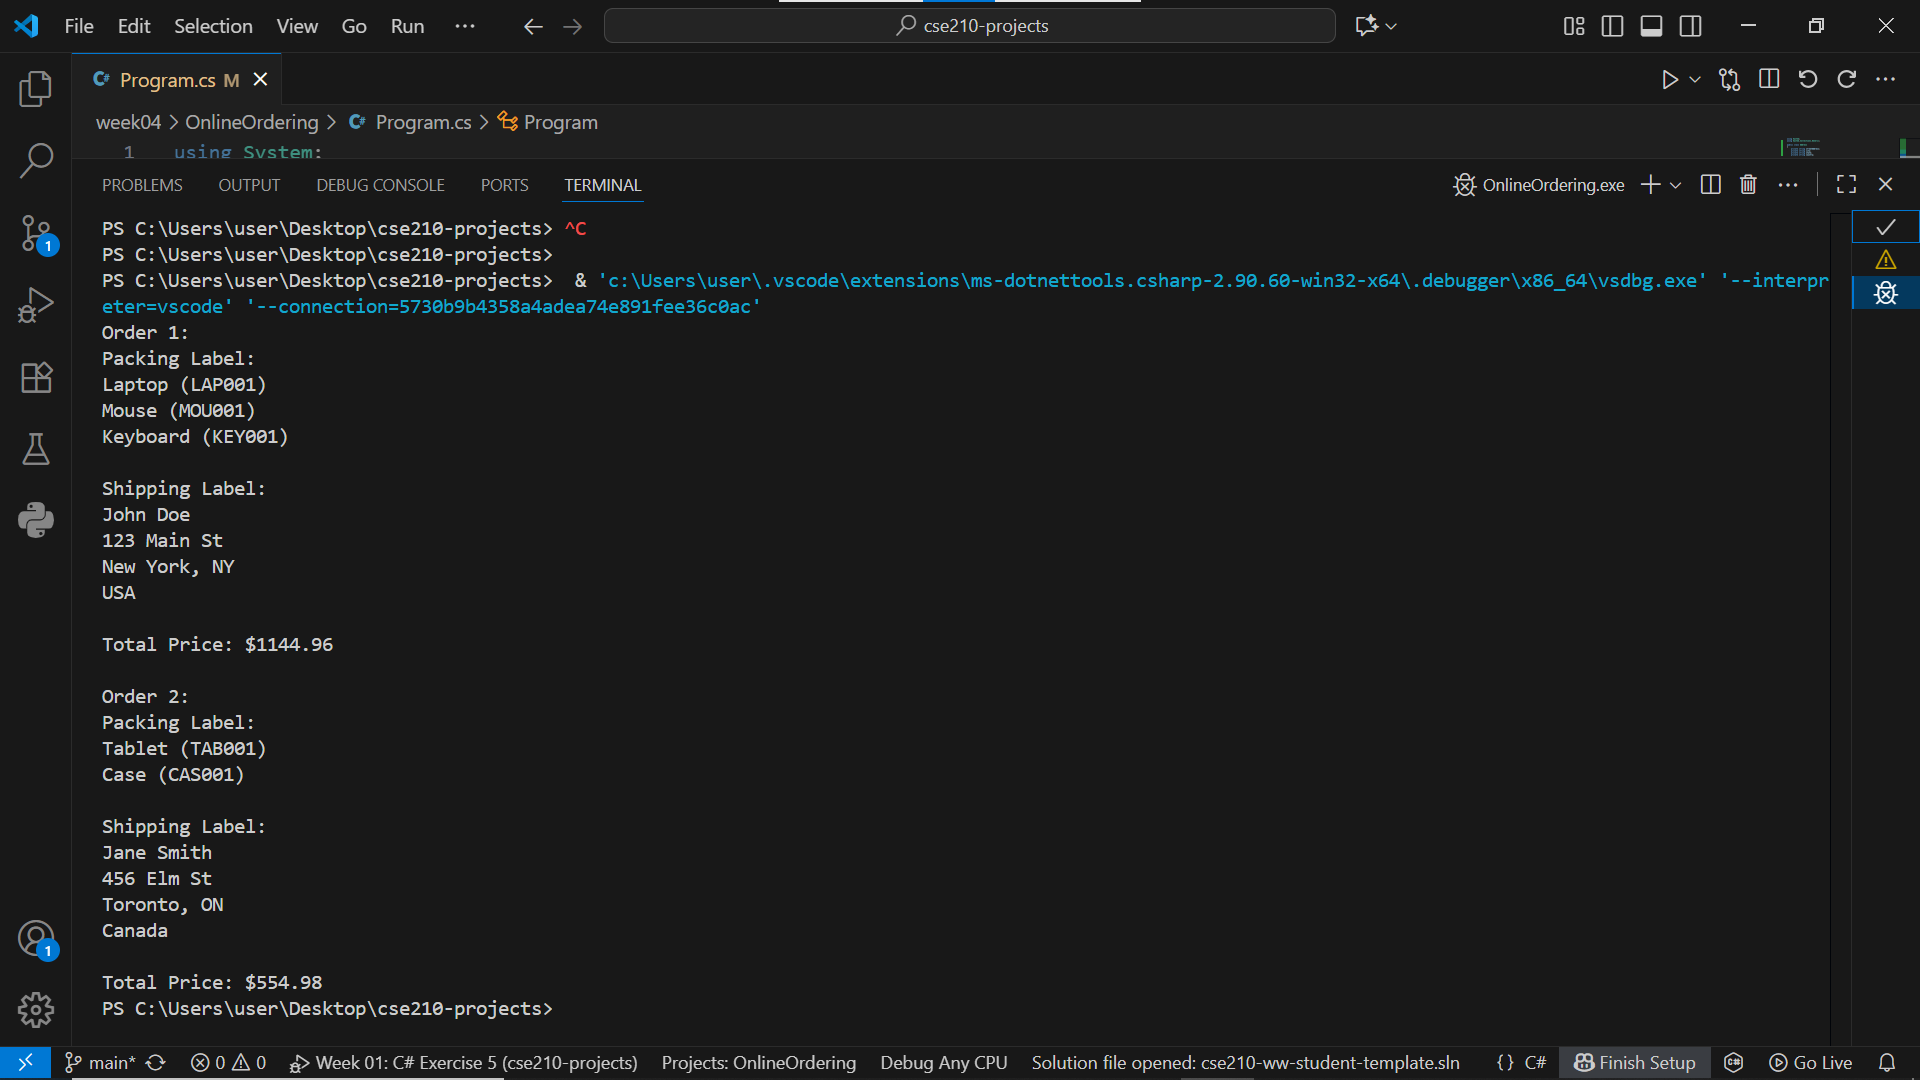
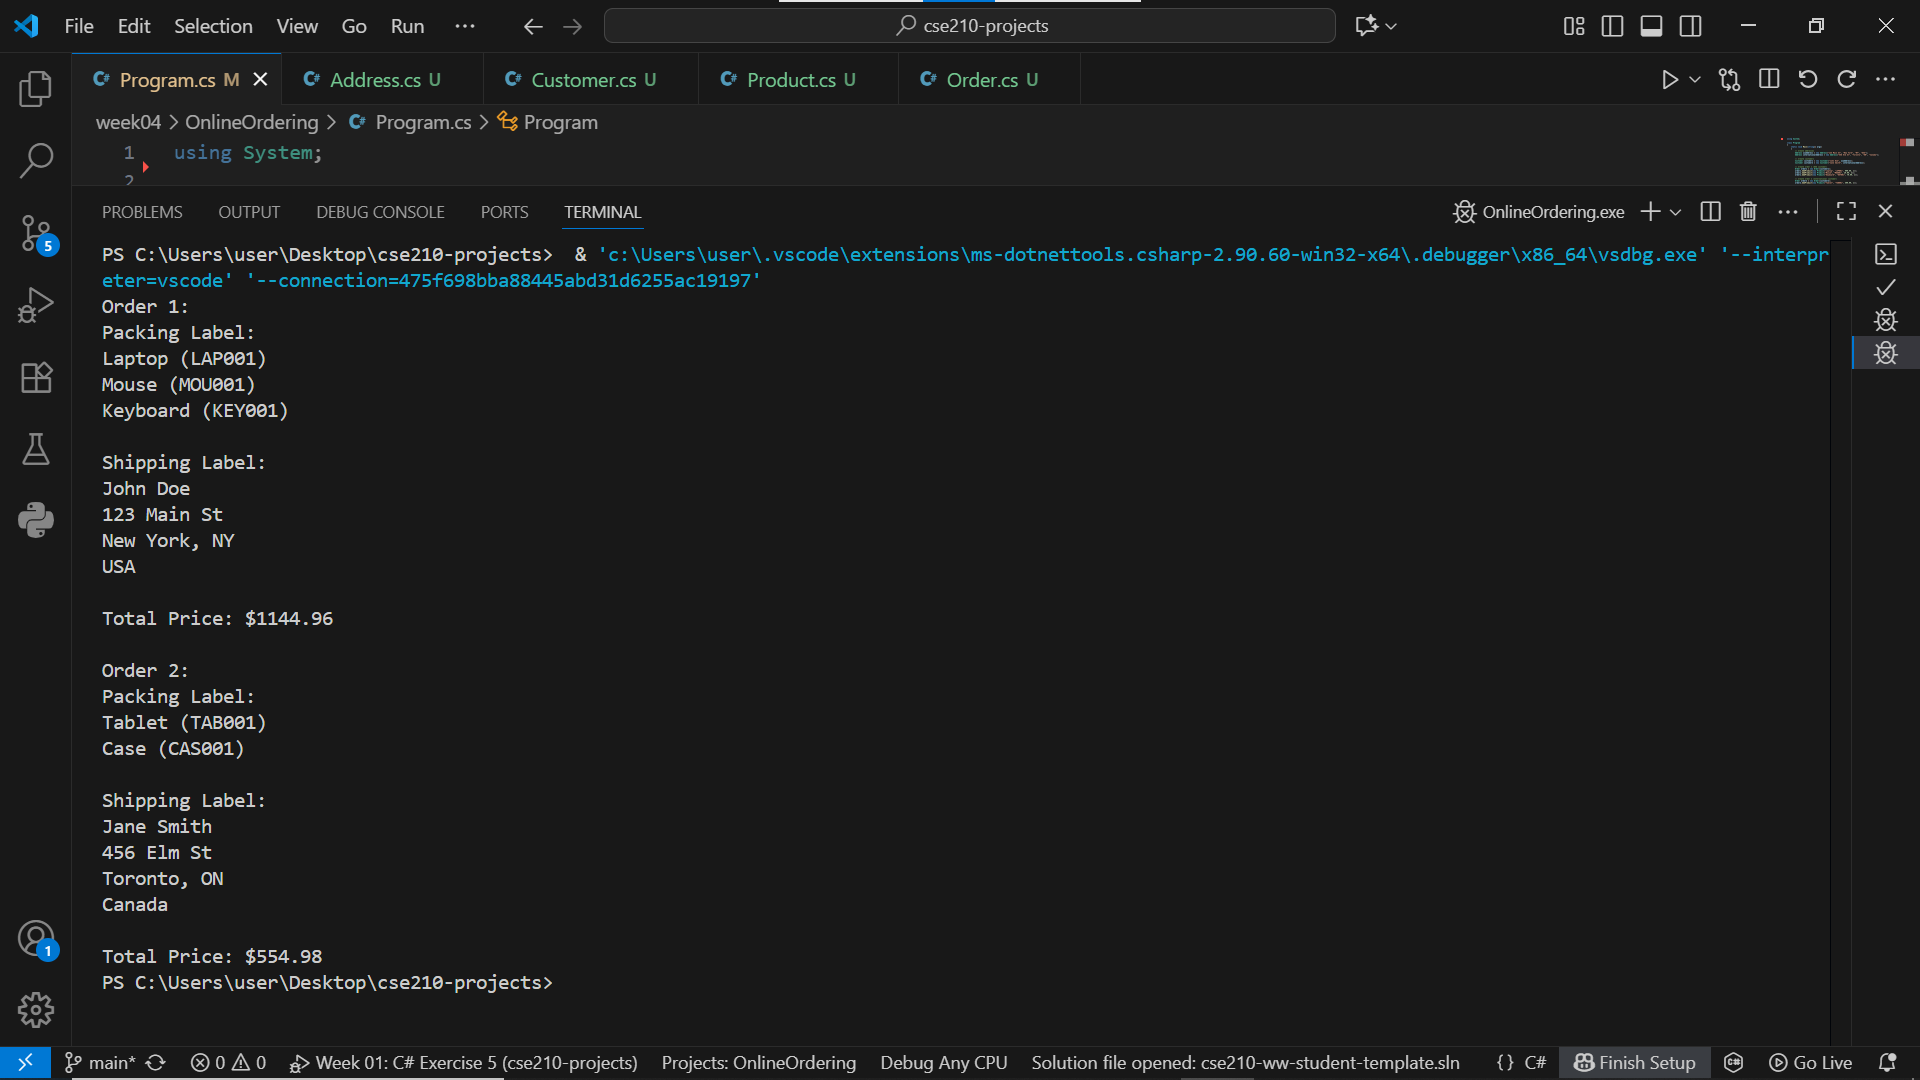
Refatored-2

diff --git a/week04/OnlineOrdering/Program.cs b/week04/OnlineOrdering/Program.cs
@@ -1,183 +1,4 @@
 using System;
-using System.Collections.Generic;
-
-public class Address
-{
-    private string streetAddress;
-    private string city;
-    private string state;
-    private string country;
-
-    public Address(string streetAddress, string city, string state, string country)
-    {
-        this.streetAddress = streetAddress;
-        this.city = city;
-        this.state = state;
-        this.country = country;
-    }
-
-    public string StreetAddress
-    {
-        get { return streetAddress; }
-        set { streetAddress = value; }
-    }
-
-    public string City
-    {
-        get { return city; }
-        set { city = value; }
-    }
-
-    public string State
-    {
-        get { return state; }
-        set { state = value; }
-    }
-
-    public string Country
-    {
-        get { return country; }
-        set { country = value; }
-    }
-
-    public bool IsInUSA()
-    {
-        return country.Equals("USA", StringComparison.OrdinalIgnoreCase) || country.Equals("United States", StringComparison.OrdinalIgnoreCase);
-    }
-
-    public override string ToString()
-    {
-        return $"{streetAddress}\n{city}, {state}\n{country}";
-    }
-}
-
-public class Customer
-{
-    private string name;
-    private Address address;
-
-    public Customer(string name, Address address)
-    {
-        this.name = name;
-        this.address = address;
-    }
-
-    public string Name
-    {
-        get { return name; }
-        set { name = value; }
-    }
-
-    public Address Address
-    {
-        get { return address; }
-        set { address = value; }
-    }
-
-    public bool LivesInUSA()
-    {
-        return address.IsInUSA();
-    }
-}
-
-public class Product
-{
-    private string name;
-    private string productId;
-    private double price;
-    private int quantity;
-
-    public Product(string name, string productId, double price, int quantity)
-    {
-        this.name = name;
-        this.productId = productId;
-        this.price = price;
-        this.quantity = quantity;
-    }
-
-    public string Name
-    {
-        get { return name; }
-        set { name = value; }
-    }
-
-    public string ProductId
-    {
-        get { return productId; }
-        set { productId = value; }
-    }
-
-    public double Price
-    {
-        get { return price; }
-        set { price = value; }
-    }
-
-    public int Quantity
-    {
-        get { return quantity; }
-        set { quantity = value; }
-    }
-
-    public double GetTotalCost()
-    {
-        return price * quantity;
-    }
-}
-
-public class Order
-{
-    private List<Product> products;
-    private Customer customer;
-
-    public Order(Customer customer)
-    {
-        this.customer = customer;
-        this.products = new List<Product>();
-    }
-
-    public List<Product> Products
-    {
-        get { return products; }
-    }
-
-    public Customer Customer
-    {
-        get { return customer; }
-        set { customer = value; }
-    }
-
-    public void AddProduct(Product product)
-    {
-        products.Add(product);
-    }
-
-    public double GetTotalPrice()
-    {
-        double total = 0.0;
-        foreach (Product product in products)
-        {
-            total += product.GetTotalCost();
-        }
-        double shippingCost = customer.LivesInUSA() ? 5.0 : 35.0;
-        return total + shippingCost;
-    }
-
-    public string GetPackingLabel()
-    {
-        string label = "";
-        foreach (Product product in products)
-        {
-            label += $"{product.Name} ({product.ProductId})\n";
-        }
-        return label.TrimEnd('\n');
-    }
-
-    public string GetShippingLabel()
-    {
-        return $"{customer.Name}\n{customer.Address}";
-    }
-}
 
 class Program
 {

diff --git a/week04/OnlineOrdering/Order.cs b/week04/OnlineOrdering/Order.cs
@@ -1,0 +1,56 @@
+using System;
+using System.Collections.Generic;
+
+public class Order
+{
+    private List<Product> products;
+    private Customer customer;
+
+    public Order(Customer customer)
+    {
+        this.customer = customer;
+        this.products = new List<Product>();
+    }
+
+    public List<Product> Products
+    {
+        get { return products; }
+    }
+
+    public Customer Customer
+    {
+        get { return customer; }
+        set { customer = value; }
+    }
+
+    public void AddProduct(Product product)
+    {
+        products.Add(product);
+    }
+
+    public double GetTotalPrice()
+    {
+        double total = 0.0;
+        foreach (Product product in products)
+        {
+            total += product.GetTotalCost();
+        }
+        double shippingCost = customer.LivesInUSA() ? 5.0 : 35.0;
+        return total + shippingCost;
+    }
+
+    public string GetPackingLabel()
+    {
+        string label = "";
+        foreach (Product product in products)
+        {
+            label += $"{product.Name} ({product.ProductId})\n";
+        }
+        return label.TrimEnd('\n');
+    }
+
+    public string GetShippingLabel()
+    {
+        return $"{customer.Name}\n{customer.Address}";
+    }
+}

diff --git a/week04/OnlineOrdering/Address.cs b/week04/OnlineOrdering/Address.cs
@@ -1,0 +1,51 @@
+using System;
+
+public class Address
+{
+    private string streetAddress;
+    private string city;
+    private string state;
+    private string country;
+
+    public Address(string streetAddress, string city, string state, string country)
+    {
+        this.streetAddress = streetAddress;
+        this.city = city;
+        this.state = state;
+        this.country = country;
+    }
+
+    public string StreetAddress
+    {
+        get { return streetAddress; }
+        set { streetAddress = value; }
+    }
+
+    public string City
+    {
+        get { return city; }
+        set { city = value; }
+    }
+
+    public string State
+    {
+        get { return state; }
+        set { state = value; }
+    }
+
+    public string Country
+    {
+        get { return country; }
+        set { country = value; }
+    }
+
+    public bool IsInUSA()
+    {
+        return country.Equals("USA", StringComparison.OrdinalIgnoreCase) || country.Equals("United States", StringComparison.OrdinalIgnoreCase);
+    }
+
+    public override string ToString()
+    {
+        return $"{streetAddress}\n{city}, {state}\n{country}";
+    }
+}

diff --git a/week04/OnlineOrdering/Product.cs b/week04/OnlineOrdering/Product.cs
@@ -1,0 +1,44 @@
+public class Product
+{
+    private string name;
+    private string productId;
+    private double price;
+    private int quantity;
+
+    public Product(string name, string productId, double price, int quantity)
+    {
+        this.name = name;
+        this.productId = productId;
+        this.price = price;
+        this.quantity = quantity;
+    }
+
+    public string Name
+    {
+        get { return name; }
+        set { name = value; }
+    }
+
+    public string ProductId
+    {
+        get { return productId; }
+        set { productId = value; }
+    }
+
+    public double Price
+    {
+        get { return price; }
+        set { price = value; }
+    }
+
+    public int Quantity
+    {
+        get { return quantity; }
+        set { quantity = value; }
+    }
+
+    public double GetTotalCost()
+    {
+        return price * quantity;
+    }
+}

diff --git a/week04/OnlineOrdering/Customer.cs b/week04/OnlineOrdering/Customer.cs
@@ -1,0 +1,28 @@
+public class Customer
+{
+    private string name;
+    private Address address;
+
+    public Customer(string name, Address address)
+    {
+        this.name = name;
+        this.address = address;
+    }
+
+    public string Name
+    {
+        get { return name; }
+        set { name = value; }
+    }
+
+    public Address Address
+    {
+        get { return address; }
+        set { address = value; }
+    }
+
+    public bool LivesInUSA()
+    {
+        return address.IsInUSA();
+    }
+}
